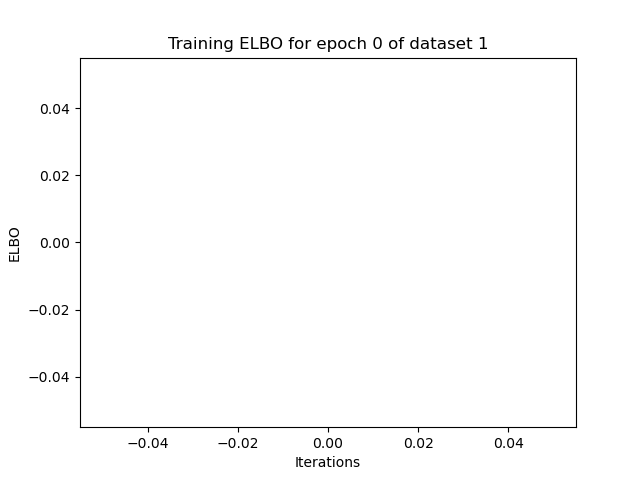
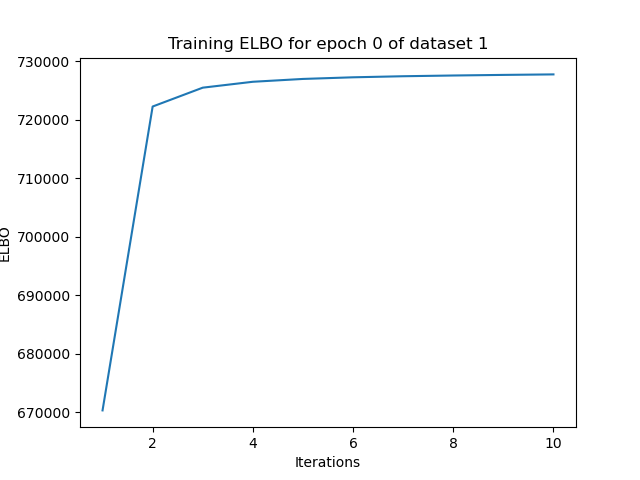
fix elbo

diff --git a/src/dbm.py b/src/dbm.py
@@ -261,10 +261,11 @@ class DBM:
                     elbo += torch.sum(self.layer_mean_field_parameters[index+1]["mu"]*self.layer_parameters[index+1]["hb"])
             elbo += torch.sum(torch.matmul(self.layer_mean_field_parameters[0]["mu"], self.layer_parameters[0]["W"])*data)
 
-            entropy = torch.tensor(0., device=self.device)
             for index in range(len(self.layers)):
-                entropy += -torch.sum(self.layer_mean_field_parameters[index]["mu"]*torch.log(self.layer_mean_field_parameters[index]["mu"]))
-            elbo += entropy
+                clamped_mf = torch.clamp(self.layer_mean_field_parameters[index]["mu"], min=1e-3, max=1-1e-3)
+                raw = -clamped_mf*torch.log(clamped_mf) - (1-clamped_mf)*torch.log(1-clamped_mf)                         
+                entropy = torch.sum(raw)
+                elbo += entropy
         return elbo.item()
 
     def visualize_ELBO(self, dataset_index: int, epoch: int, elbos: list):
@@ -275,10 +276,9 @@ class DBM:
         if not os.path.exists(directory):
             os.makedirs(directory)
         plt_title = "Training ELBO for epoch {} of dataset {}".format(epoch, dataset_index)
-        # x = np.arange(1, len(elbos)+1)
+        x = np.arange(1, len(elbos)+1)
         plt.figure()
-        # plt.plot(x, np.array(elbos))
-        plt.plot(np.array(elbos))
+        plt.plot(x, np.array(elbos))
         plt.xlabel("Iterations")
         plt.ylabel("ELBO")
         plt.title(plt_title)
@@ -371,6 +371,9 @@ class DBM:
                                 activation = torch.matmul(self.layer_mean_field_parameters[index-1]["mu"], self.layer_parameters[index]["W"].t()) + torch.matmul(self.layer_mean_field_parameters[index+1]["mu"], self.layer_parameters[index+1]["W"])
 
                             self.layer_mean_field_parameters[index]["mu"] = torch.sigmoid(activation)
+                            if ((self.layer_mean_field_parameters[index]["mu"] < 0).any()):
+                                print(activation)
+                                raise ValueError("Negative Mean Field Parameters")
 
                             new_diff = torch.mean(torch.abs(old_mu - self.layer_mean_field_parameters[index]["mu"])).item()
                             mf_difference.append(new_diff)
@@ -387,7 +390,6 @@ class DBM:
                     if (mf_step == mf_maximum_steps):
                         torch.set_printoptions(precision=2)
                         print("For episode {} dataset {}, Mean Field did not converge with layerwise difference {}".format(epoch, dataset_index, mf_difference))
-                    
                     self.visualize_ELBO(dataset_index, epoch, elbos)
 
                     # Update model parameters
